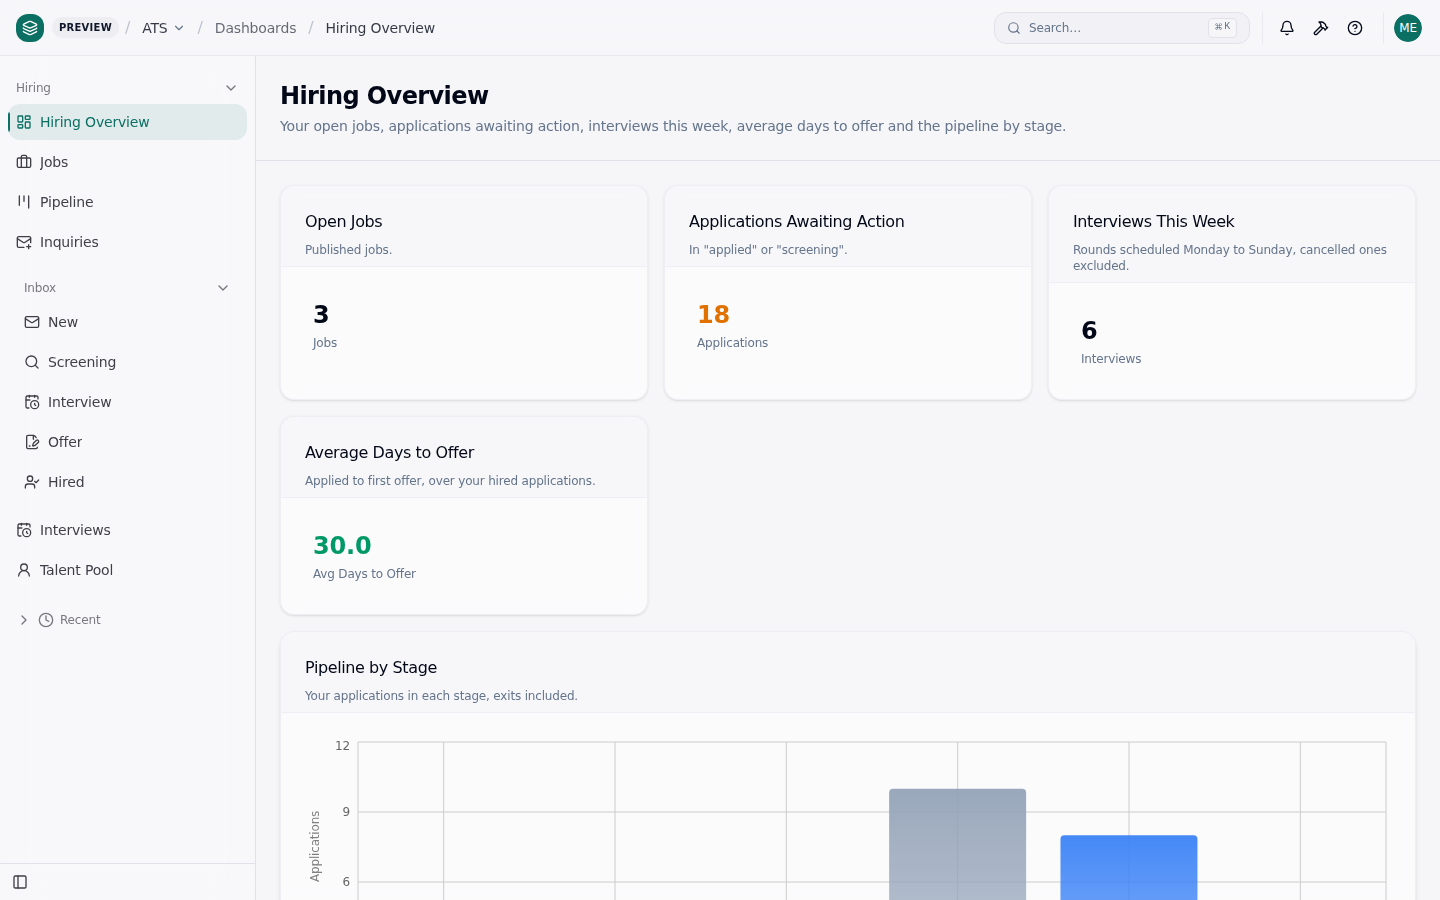
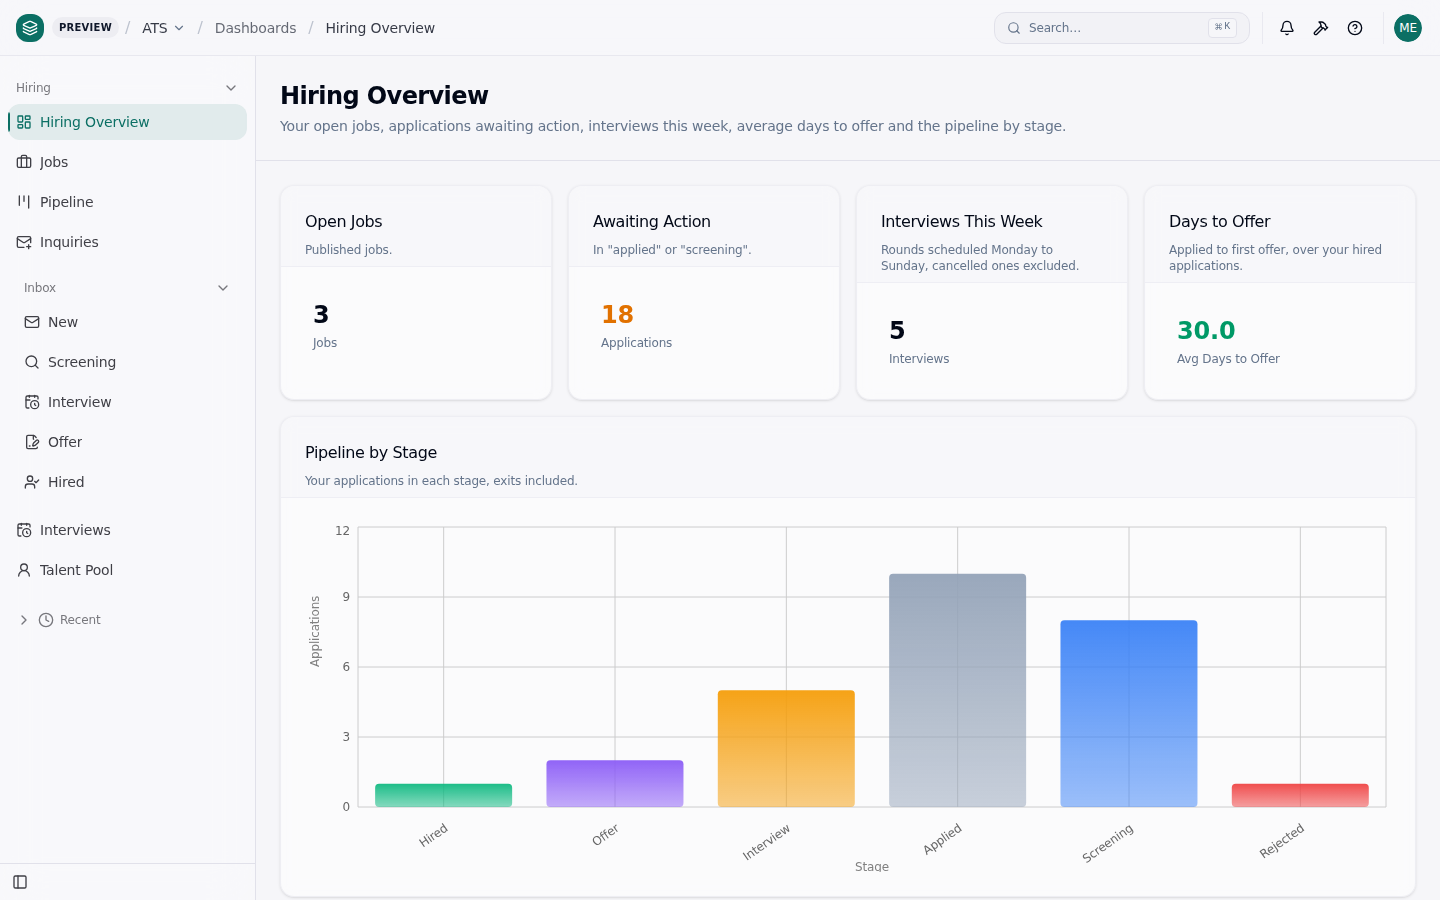
fix(dashboards): four KPI tiles on one row, chart back above the fold (#81)
Closes #78.

The fourth KPI arrived at w:4, which fills 12 columns with three tiles and
left it alone on row 2, pushing Pipeline by Stage past the 900px fold. Four
w:3 tiles at x 0/3/6/9 on row 0, bar back to y:2, and two titles shortened
(Applications Awaiting Action -> Awaiting Action, Average Days to Offer ->
Days to Offer). zh-CN titles unchanged: 62-96px in the same 222px box.

The dispatch's premise was falsified and reported rather than papered over:
the title box is 222px, not the estimated 280, and the retired long title
measures 215.5px — it would have fitted with 6.5px to spare. Shortening is
still right at a 97% fill, but "it wraps" is not what the browser says.

Verified in a real browser at 1440x900: every title renders one line box,
scrollWidth equals clientWidth (no ellipsis), all four tiles at top 210, and
the chart SVG ends at 872 with scrollHeight 900 — the whole chart is above
the fold. Repeated with navigator.language zh-CN.

Screenshot 03 re-taken and its caption rewritten. It now reads 5 interviews
this week, not 6: the seed schedules Quillstone's ten rounds at boot + 1..10
days while the tile counts a fixed Monday-to-Sunday week, so the previous
shot's 6 was a Monday-boot artifact. Confirmed independently in review — a
Monday boot puts six in the window, a Tuesday boot five. The caption now says
so; the evidence table and the seed question are #80.

Claude-Session: https://claude.ai/code/session_01PbJ5Cy9KDAzeQHo8bsMadG

diff --git a/src/dashboards/employer-hiring.dashboard.ts b/src/dashboards/employer-hiring.dashboard.ts
@@ -10,9 +10,10 @@ import type { Dashboard } from '@objectstack/spec/ui';
  * #46). Quillstone's administrator and Harborline's read different numbers
  * from the same widgets, and platform staff read the whole marketplace.
  *
- * All four of the card's tiles are here. The fourth — "Average Days to
- * Offer" — reads `avg(ats_application.days_to_offer)` over this employer's
- * HIRED applications, and it took three things that did not exist when the
+ * All four of the card's tiles are here. The fourth — "Days to Offer",
+ * DESIGN.md §04's 平均到 Offer 天数 — reads
+ * `avg(ats_application.days_to_offer)` over this employer's HIRED
+ * applications, and it took three things that did not exist when the
  * dashboard was first built:
  *   - a STORED column. `days_to_offer` is a duration between `applied_at` on
  *     the application and `created_at` on the offer; a dataset measure
@@ -43,7 +44,26 @@ import type { Dashboard } from '@objectstack/spec/ui';
  *
  * "This week" is Monday 00:00 (`{current_week_start}`) up to but excluding
  * next Monday (`{next_week_start}`): `*_end` macros are calendar days, and
- * `scheduled_at` is a timestamp.
+ * `scheduled_at` is a timestamp. On the demo seed that window is why the tile
+ * is boot-day dependent: the seed schedules each employer's rounds at
+ * boot + 1 … + n days, so a Monday boot leaves six of Quillstone's ten inside
+ * the week and every later weekday one fewer (#78 measured 5 on a Tuesday).
+ *
+ * LAYOUT — four `w: 3` KPI tiles on row 0, `x` 0/3/6/9, and the bar at
+ * `y: 2` (#78). The fourth tile arrived at `w: 4`, which fills 12 columns with
+ * three and opens row 2 for the fourth alone; that pushed the chart to `y: 4`
+ * and past the 900 px fold of the screenshot set's viewport. Two titles were
+ * shortened to fit the narrower tile, because the dashboard header already
+ * says "applications awaiting action" and "average days to offer":
+ * "Applications Awaiting Action" → "Awaiting Action", "Average Days to Offer"
+ * → "Days to Offer". Measured in the Console at 1440 × 900 (sidebar open) a
+ * `w: 3` tile gives the title a 222 px box; the four titles render at
+ * 77 / 118 / 162 / 101 px, one line box each. The retired long spelling
+ * measures 215.5 px — it would have survived on this font stack with 6.5 px to
+ * spare, which is not a margin to ship a home screen on. `src/translations`
+ * carries the same two strings in `en` (`check:i18n-source` compares them to
+ * these labels); the `zh-CN` titles are unchanged — they are 62–96 px wide in
+ * the same box and 平均到 Offer 天数 is DESIGN.md §04's own wording.
  */
 export const EmployerHiringDashboard: Dashboard = {
   name: 'ats_employer_hiring',
@@ -61,19 +81,19 @@ export const EmployerHiringDashboard: Dashboard = {
       dataset: 'ats_job_metrics',
       values: ['job_count'],
       filter: { status: 'published' },
-      layout: { x: 0, y: 0, w: 4, h: 2 },
+      layout: { x: 0, y: 0, w: 3, h: 2 },
       options: { icon: 'briefcase' },
     },
     {
       id: 'awaiting_action',
       type: 'kpi',
-      title: 'Applications Awaiting Action',
+      title: 'Awaiting Action',
       description: 'In "applied" or "screening".',
       dataset: 'ats_application_metrics',
       values: ['application_count'],
       filter: { stage: { $in: ['applied', 'screening'] } },
       colorVariant: 'warning',
-      layout: { x: 4, y: 0, w: 4, h: 2 },
+      layout: { x: 3, y: 0, w: 3, h: 2 },
       options: { icon: 'inbox' },
     },
     {
@@ -84,19 +104,19 @@ export const EmployerHiringDashboard: Dashboard = {
       dataset: 'ats_interview_metrics',
       values: ['interview_count'],
       filter: { status: { $ne: 'cancelled' }, scheduled_at: { $gte: '{current_week_start}', $lt: '{next_week_start}' } },
-      layout: { x: 8, y: 0, w: 4, h: 2 },
+      layout: { x: 6, y: 0, w: 3, h: 2 },
       options: { icon: 'calendar-clock' },
     },
     {
       id: 'avg_days_to_offer',
       type: 'kpi',
-      title: 'Average Days to Offer',
+      title: 'Days to Offer',
       description: 'Applied to first offer, over your hired applications.',
       dataset: 'ats_application_metrics',
       values: ['avg_days_to_offer'],
       filter: { stage: 'hired' },
       colorVariant: 'success',
-      layout: { x: 0, y: 2, w: 4, h: 2 },
+      layout: { x: 9, y: 0, w: 3, h: 2 },
       options: { icon: 'timer' },
     },
     {
@@ -114,7 +134,7 @@ export const EmployerHiringDashboard: Dashboard = {
         series: [{ name: 'application_count', label: 'Applications' }],
         showLegend: false,
       },
-      layout: { x: 0, y: 4, w: 12, h: 5 },
+      layout: { x: 0, y: 2, w: 12, h: 5 },
     },
   ],
 };

diff --git a/src/translations/en.ts b/src/translations/en.ts
@@ -1124,7 +1124,7 @@ export const en: TranslationData = {
           description: 'Published jobs.',
         },
         awaiting_action: {
-          title: 'Applications Awaiting Action',
+          title: 'Awaiting Action',
           description: 'In "applied" or "screening".',
         },
         interviews_this_week: {
@@ -1132,7 +1132,7 @@ export const en: TranslationData = {
           description: 'Rounds scheduled Monday to Sunday, cancelled ones excluded.',
         },
         avg_days_to_offer: {
-          title: 'Average Days to Offer',
+          title: 'Days to Offer',
           description: 'Applied to first offer, over your hired applications.',
         },
         pipeline_by_stage: {

diff --git a/docs/screenshots/README.md b/docs/screenshots/README.md
@@ -11,9 +11,10 @@ OS_PLATFORM_OWNER_EMAIL=admin@objectos.ai npx objectstack dev --fresh --database
 The seed has since grown to 818 rows — #53 added one `accepted` `ats_offer` per hired application, nothing
 else — so a boot today logs `{"inserted":818,…}`; no screen below reads `ats_offer`, and the stage counts the
 shots show (88 / 46 / 28 / 14 / 9 marketplace-wide, 10 / 8 / 5 / 2 / 1 for Quillstone) did not move.
-`03` is the one exception to the paragraph above: it was **re-taken on 2026-09-07 at 818 rows** (same CLI,
-same driver, same 1440 × 900, `-p 4631`) because [#55](https://github.com/objectstack-ai/ats/issues/55)
-added a fourth tile to its dashboard. The other six still date from the 809-row boot; re-shot against 818
+`03` is the one exception to the paragraph above: it was **re-taken on 2026-09-08 at 818 rows** (same CLI,
+same driver, same 1440 × 900, `-p 4661`) because [#78](https://github.com/objectstack-ai/ats/issues/78)
+moved its four KPI tiles onto one row. That is this file's second re-take — the first was on 2026-09-07
+(`-p 4631`) when [#55](https://github.com/objectstack-ai/ats/issues/55) added the fourth tile. The other six still date from the 809-row boot; re-shot against 818
 they render the same screen, so they were left as they are.
 The driver matters: on the default (sqlite) driver the four tenancy-scoped objects return no rows to the
 platform personas ([#39](https://github.com/objectstack-ai/ats/issues/39)), so the Platform group's review
@@ -24,7 +25,7 @@ personas below are three of them.
 |:--|:--|:--|
 | `01-platform-home-overview.png` | `admin@platform.example` (Platform) | The Platform group's home: the **Platform Overview** dashboard — 9 verified employers · 22 open jobs · 30 applications this month · 70 active candidates · review queue 2 employers / 6 jobs · applications per ISO week. |
 | `02-platform-hiring-funnel.png` | `admin@platform.example` (Platform) | The **Hiring Funnel** dashboard, marketplace-wide: applied → screening → interview → offer → hired, plus the two exits. The funnel's per-stage values are hover-only in the Console's funnel widget; measured through the dataset query they are **88 / 46 / 28 / 14 / 9**, with 15 rejected · 0 withdrawn · 185 in pipeline (see [`docs/evidence/issue-8`](../evidence/issue-8/README.md)). |
-| `03-hiring-home-overview.png` | `admin@quillstone.example` (Hiring) | The Hiring group's home: the **Hiring Overview** dashboard, row-level scoped to Quillstone — 3 open jobs · 18 applications awaiting action · 6 interviews this week · **average days to offer 30.0**. That fourth tile ([#55](https://github.com/objectstack-ai/ats/issues/55)) opened a second tile row and pushed **Pipeline by Stage** past the 900 px fold, so the bars are cropped here exactly as `01`'s weekly chart is; measured through the dataset query they are 10 / 8 / 5 / 2 / 1 (+1 rejected). On the demo seed the 30.0 is the hired applications' *age*, not elapsed decision time — a seed cannot set `created_at` ([#65](https://github.com/objectstack-ai/ats/issues/65)); `src/dashboards/employer-hiring.dashboard.ts` says so at the tile. |
+| `03-hiring-home-overview.png` | `admin@quillstone.example` (Hiring) | The Hiring group's home: the **Hiring Overview** dashboard, row-level scoped to Quillstone — 3 open jobs · 18 awaiting action · 5 interviews this week · **average days to offer 30.0** — and, under them, the whole of **Pipeline by Stage**: 10 / 8 / 5 / 2 / 1 (+1 rejected), every bar and both axes inside the 900 px fold. The four KPI tiles share row 0 at `w: 3` since [#78](https://github.com/objectstack-ai/ats/issues/78); the tile row `w: 4` forced ([#55](https://github.com/objectstack-ai/ats/issues/55)) is gone and nothing here is cropped. **The "5 interviews this week" is a Tuesday-boot number, not a fixed one**: the seed schedules Quillstone's ten rounds at boot + 1 … + 10 days while the tile counts a fixed Monday-to-Sunday week, so a Monday boot puts six of them inside the window (what the `#55` re-take photographed) and every later weekday one fewer. The other four numbers do not move with the boot day. On the demo seed the 30.0 is the hired applications' *age*, not elapsed decision time — a seed cannot set `created_at` ([#65](https://github.com/objectstack-ai/ats/issues/65)); `src/dashboards/employer-hiring.dashboard.ts` says so at the tile. |
 | `04-hiring-pipeline-kanban.png` | `admin@quillstone.example` (Hiring) | The **Pipeline** kanban over `ats_application`, grouped by `stage`: Quillstone's 27 applications in their columns (Applied 10 · Screening 8 · Interview 5 · Offer 2 …). |
 | `05-hiring-interview-calendar.png` | `admin@quillstone.example` (Hiring) | The **Interview Calendar** over `ats_interview.scheduled_at`: Quillstone's 10 rounds, all inside the next two weeks because the seed schedules them relative to boot time. |
 | `06-seeker-home-find-jobs.png` | `candidate01@mail.example` (Job Seeker) | The Job Seeker group's home: **Find Jobs**, the `published` grid over `ats_job` — 22 published jobs across every industry in the seed. |
